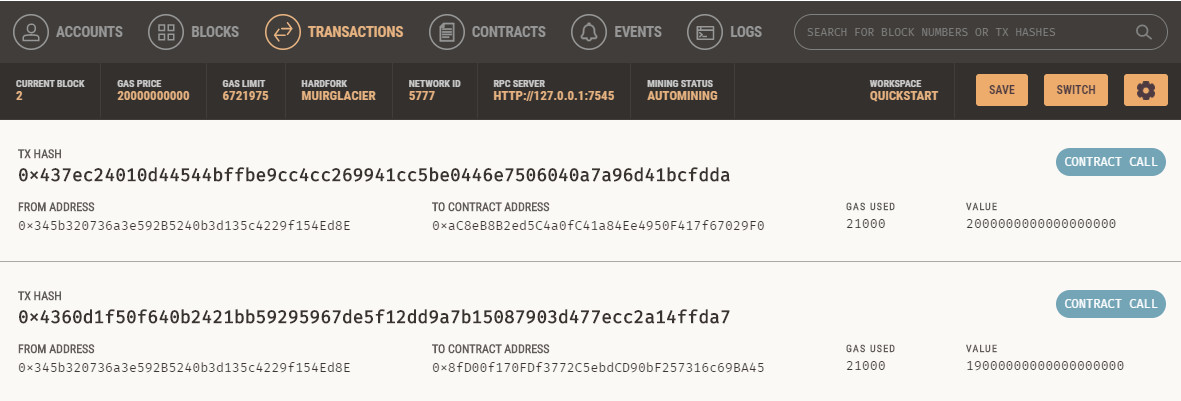
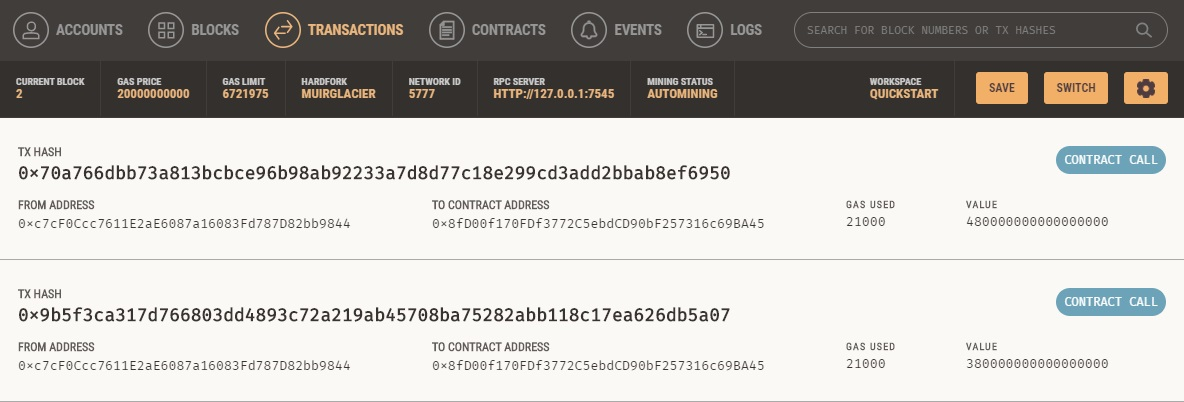
Finalised

diff --git a/README.md b/README.md
@@ -92,11 +92,11 @@ To accomplish all of this, complete the following steps:
 
 From the Terminal, start the streamlit application by navigating to the main folder and run the command "streamlit run krypto_jobs.py"
 
-The following photo is the main interface of the streamlit application. "Lane" is selected and assigned a job for "10 hours". After clicking "Send Transaction", a "Validated Transaction Hash" is displayed.
+The following photo is the main interface of the streamlit application. "Kendall" is selected and assigned a job for "3 hours". After clicking "Send Transaction", a "Validated Transaction Hash" is displayed.
 
 ![](Images/front.jpg)
 
-After the transaction is completed, the balance of the account is deducted accordingly to the "Wage".
+After 2 transactions are executed, the balance of the account is deducted accordingly to the "Wage".
 
 ![](Images/ganache.jpg)
 
@@ -104,3 +104,7 @@ After the transaction is completed, the balance of the account is deducted accor
 Navigate to the "TRANSACTIONS" tab in Ganache, we can see the transactions are recorded accordingly.
 
 ![](Images/ganache1.jpg)
+
+Click on the second transaction, we can see more details of this particular transaction.
+
+![](Images/ganache2.jpg)
